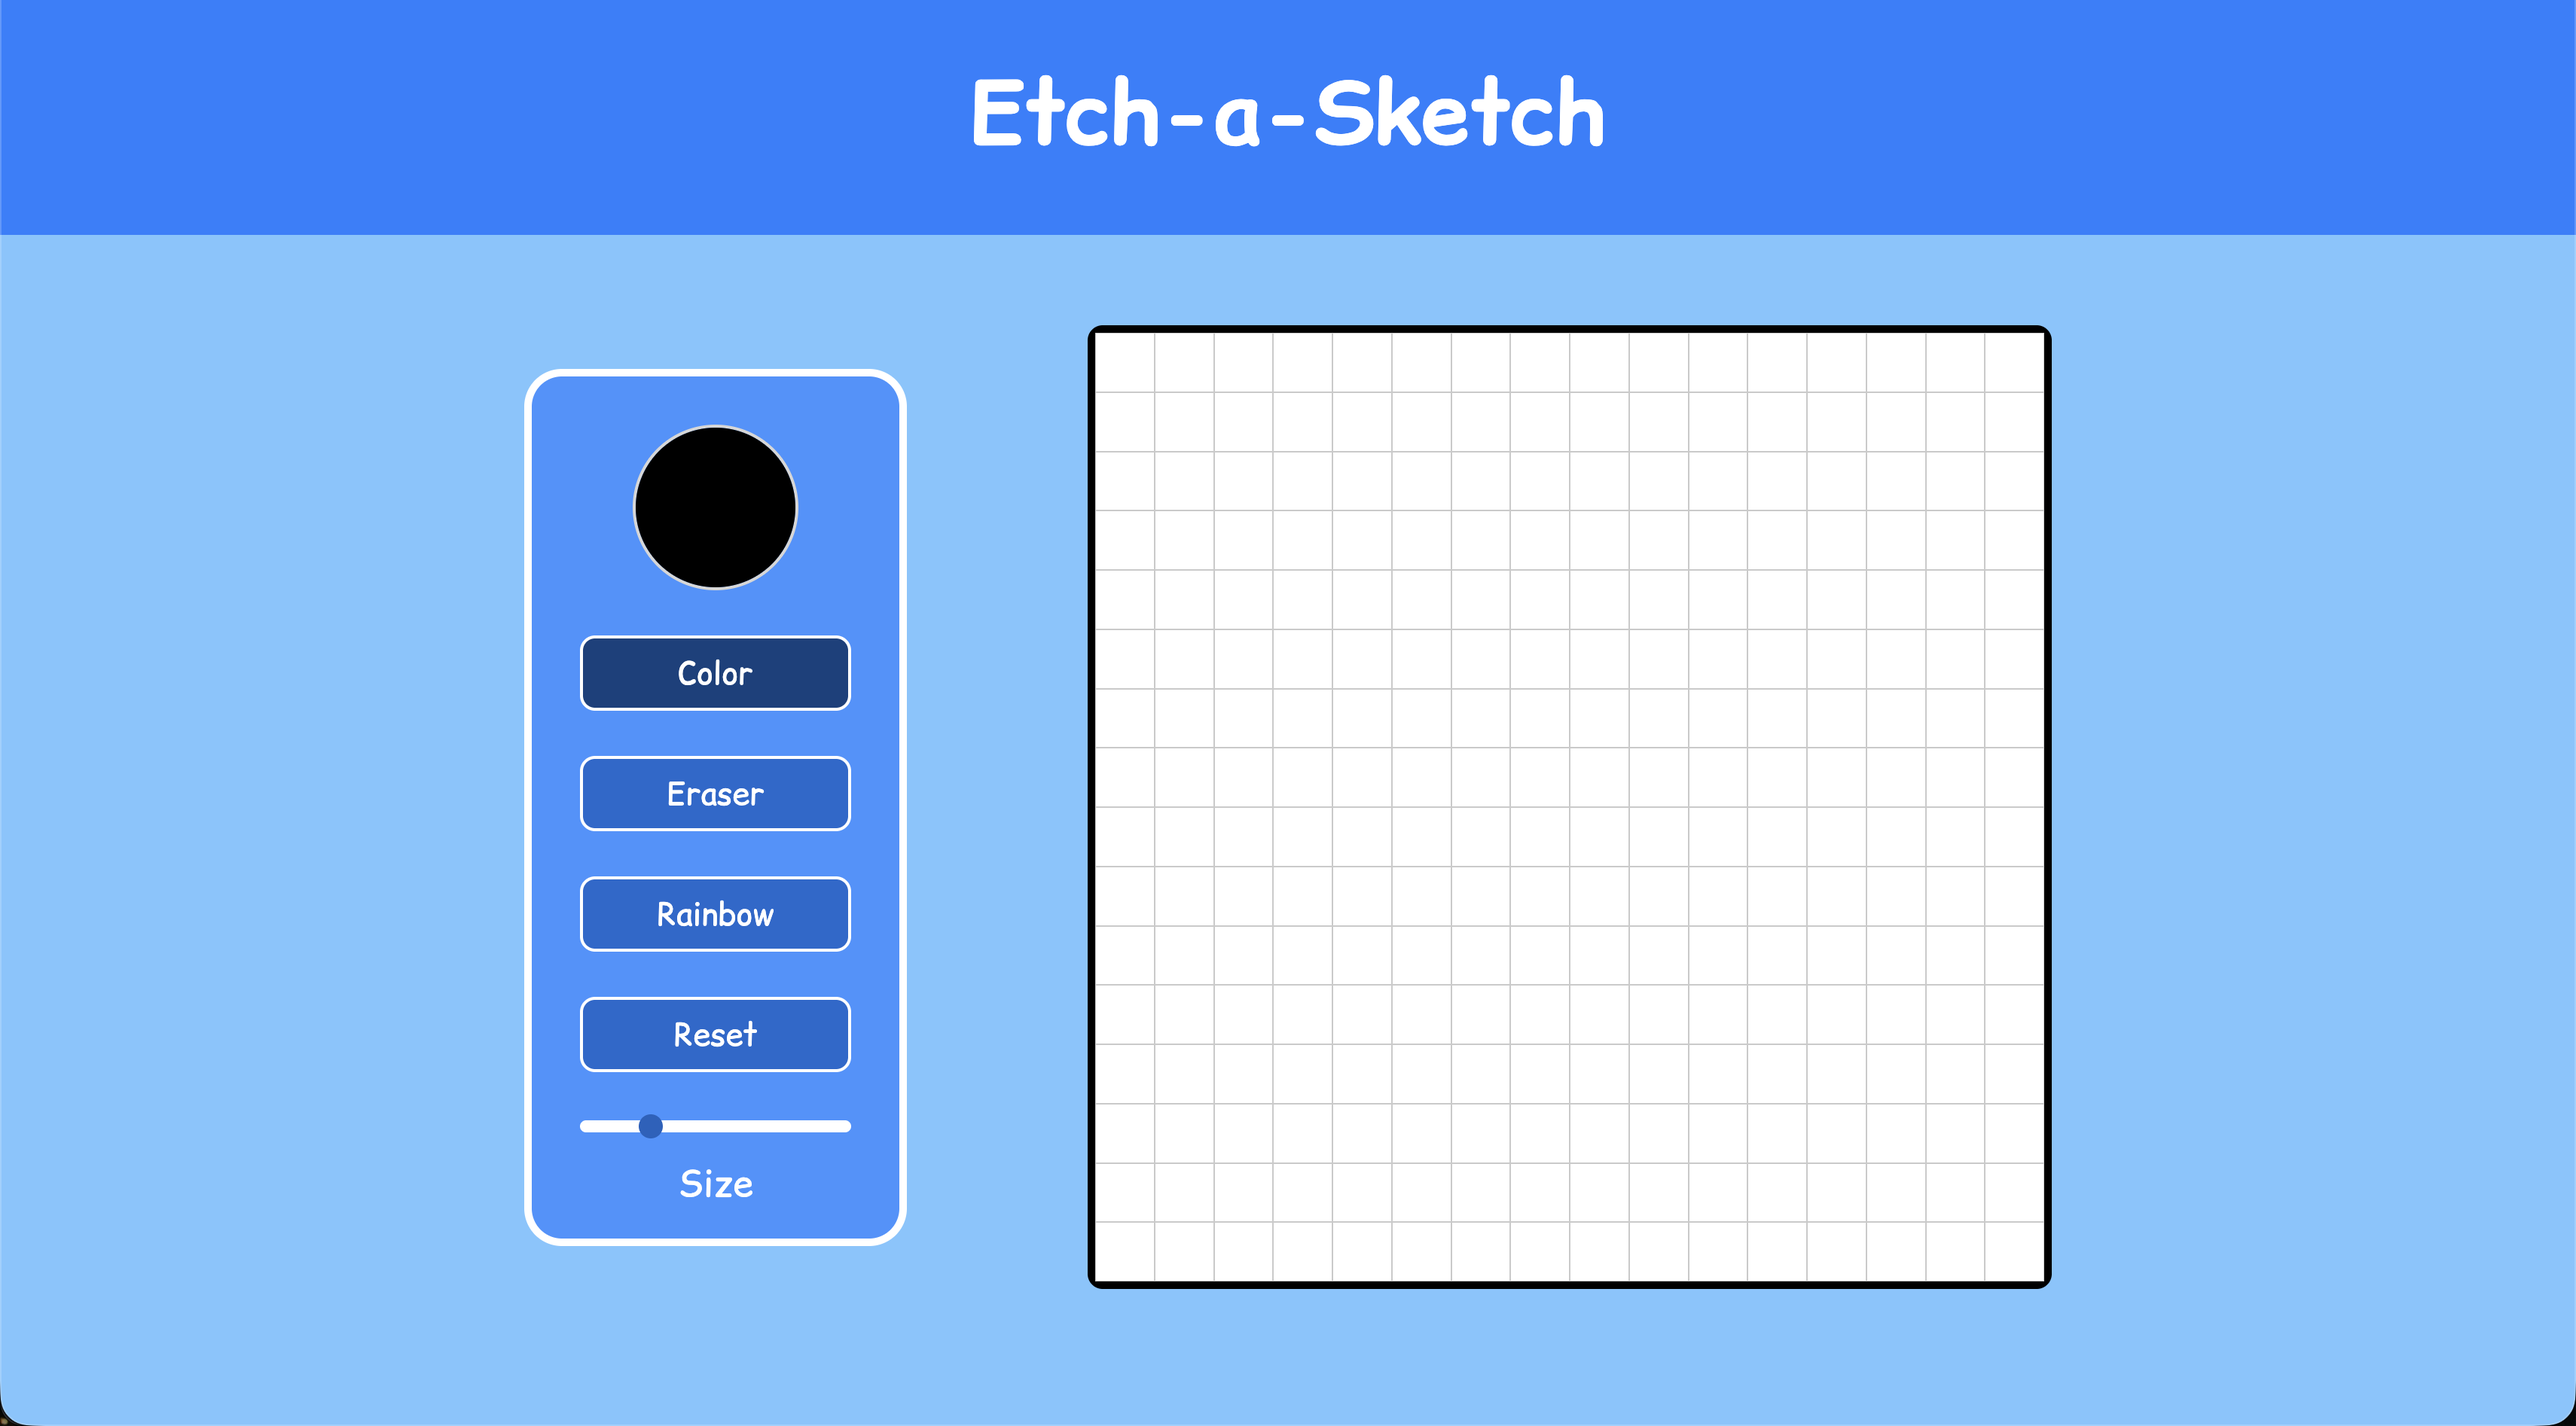
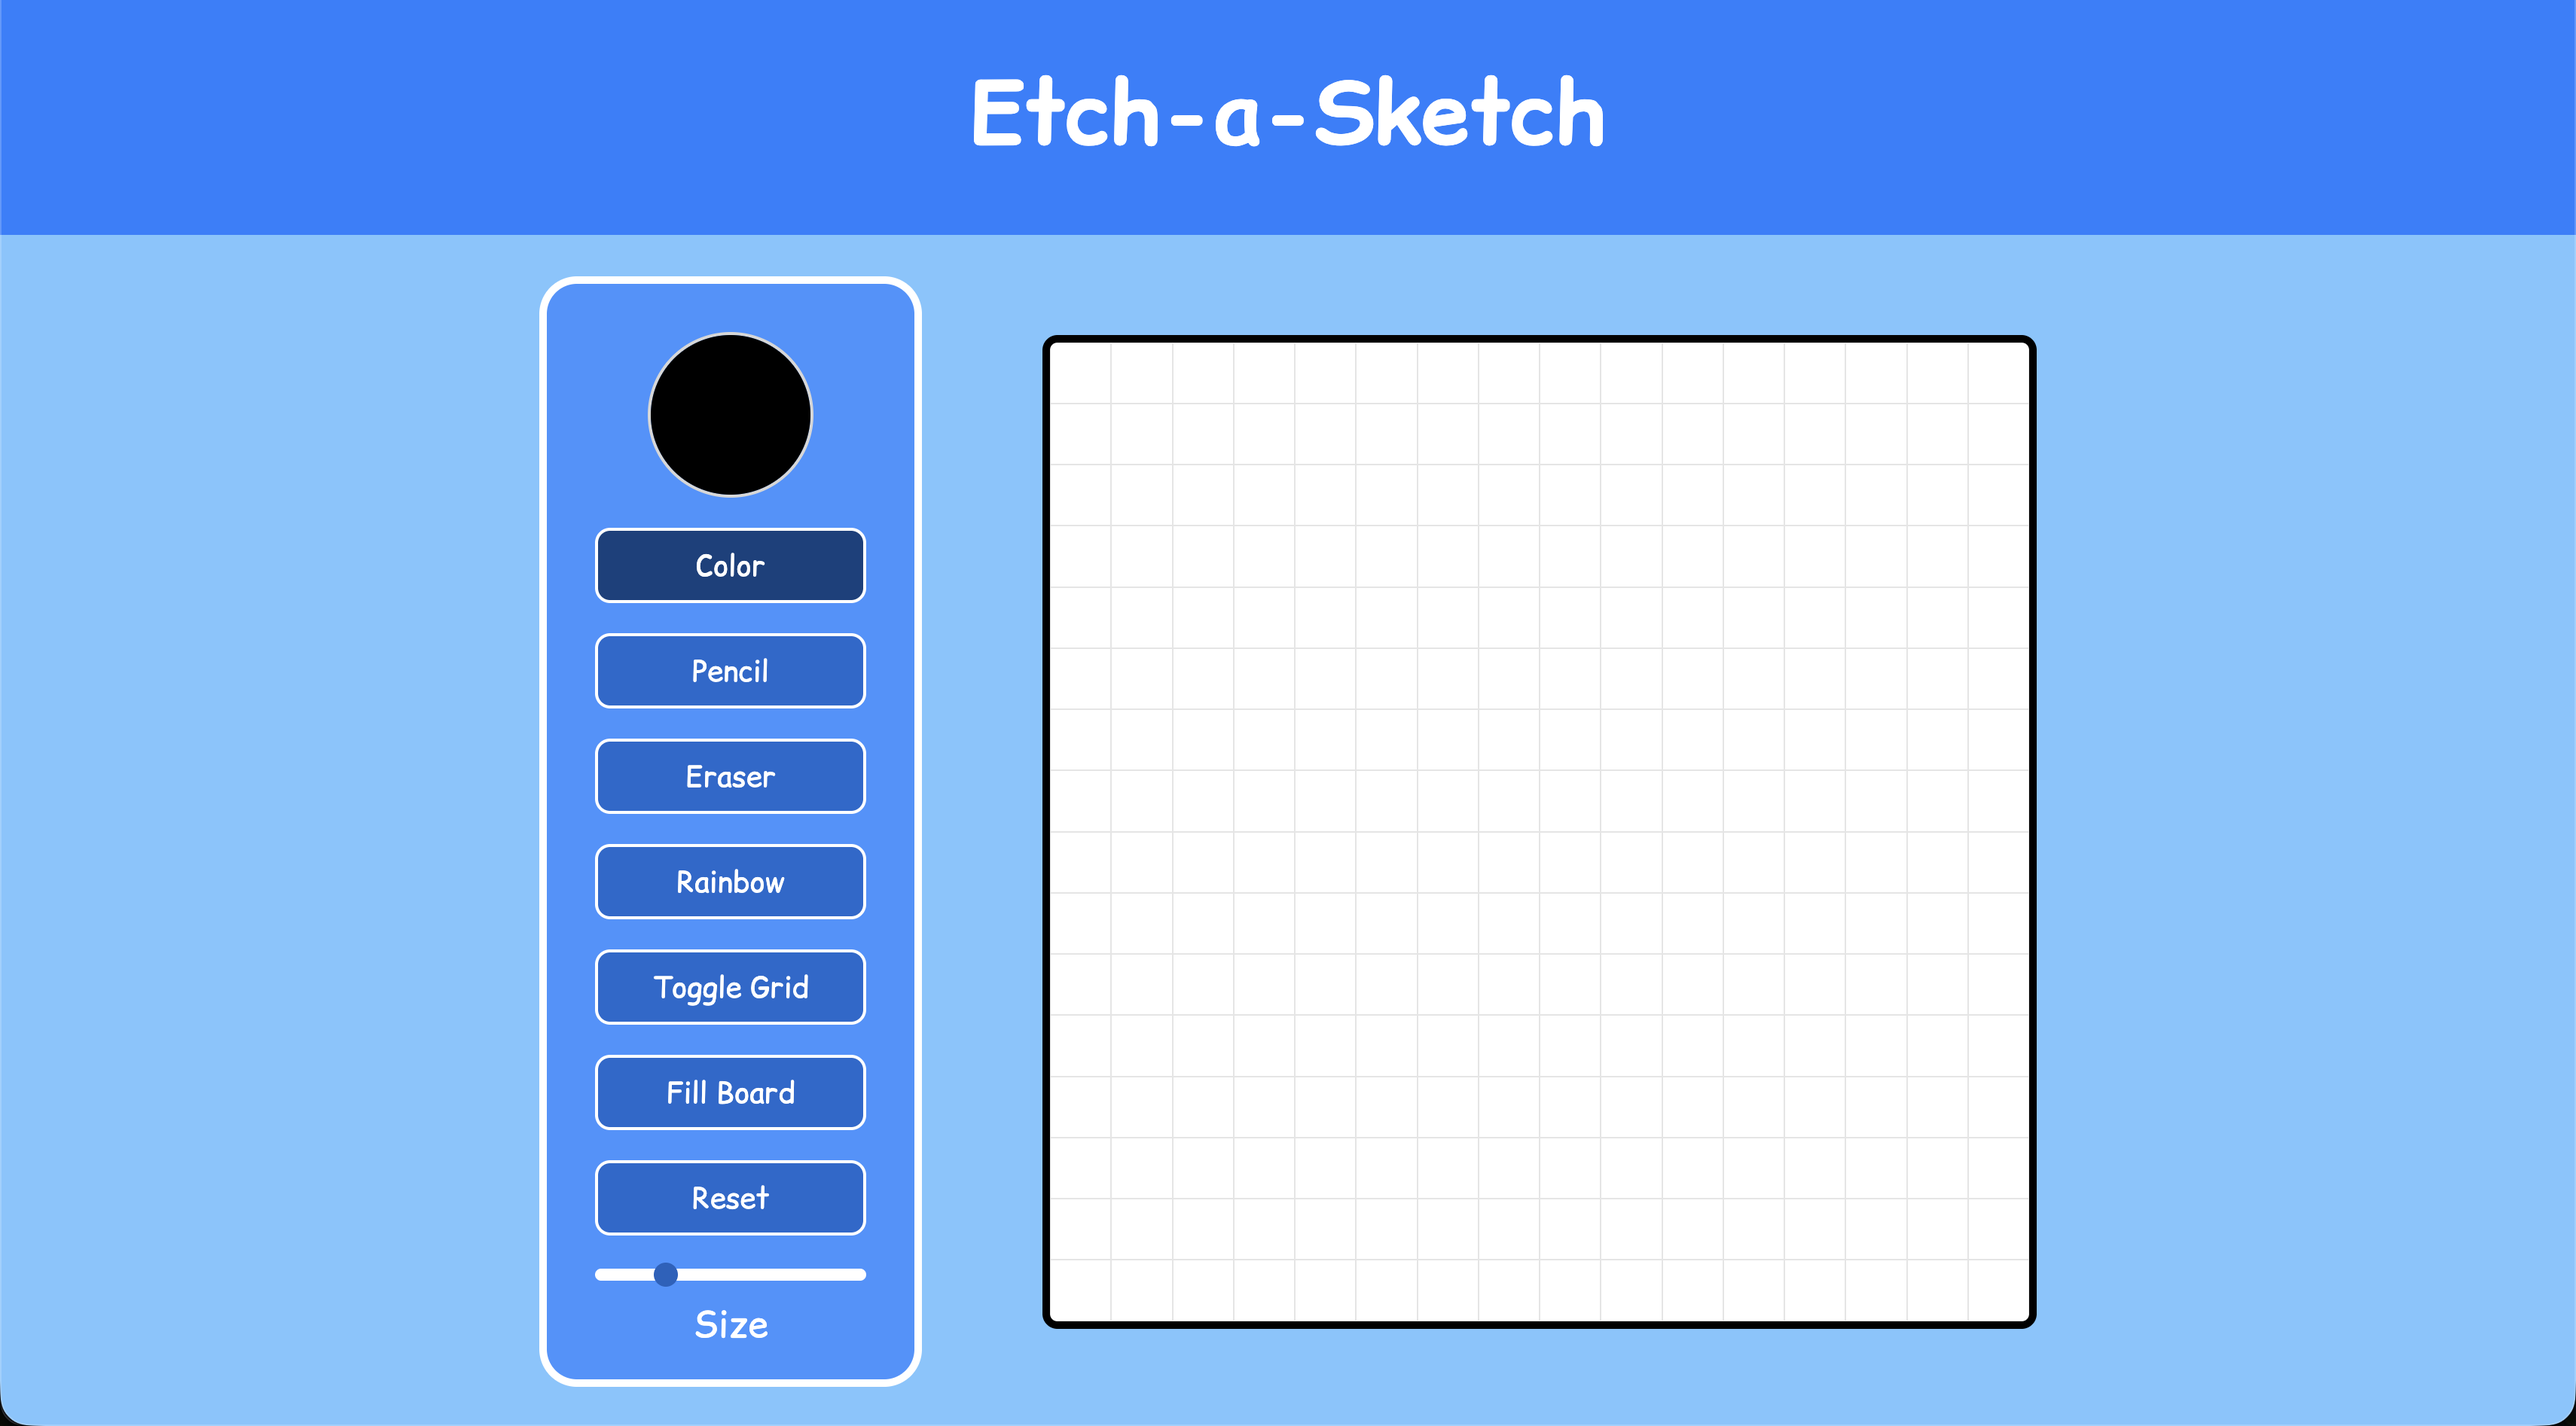
Update README with new features

Changed region(s): [[0.4029, 0.2181, 0.8058, 0.9345], [0.186, 0.1869, 0.3719, 0.9968]]

diff --git a/README.md b/README.md
@@ -17,6 +17,8 @@ Visit the page online: [Etch-a-Sketch](https://axhis8.github.io/etch-a-sketch/)
 - Color Picker
 - Rainbow Mode
 - Custom Grid Sizing
+- Grid Toggling
+- Board Color filling
 
 ## Built With
 
